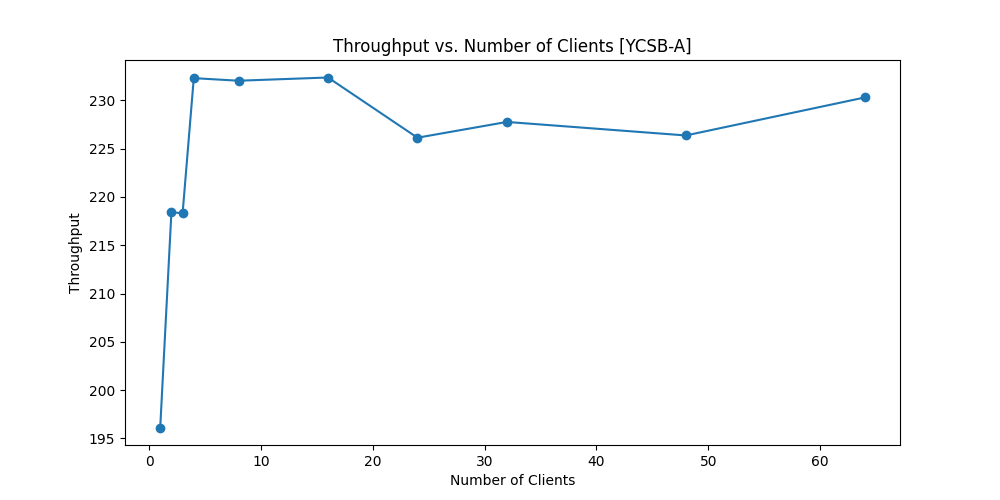
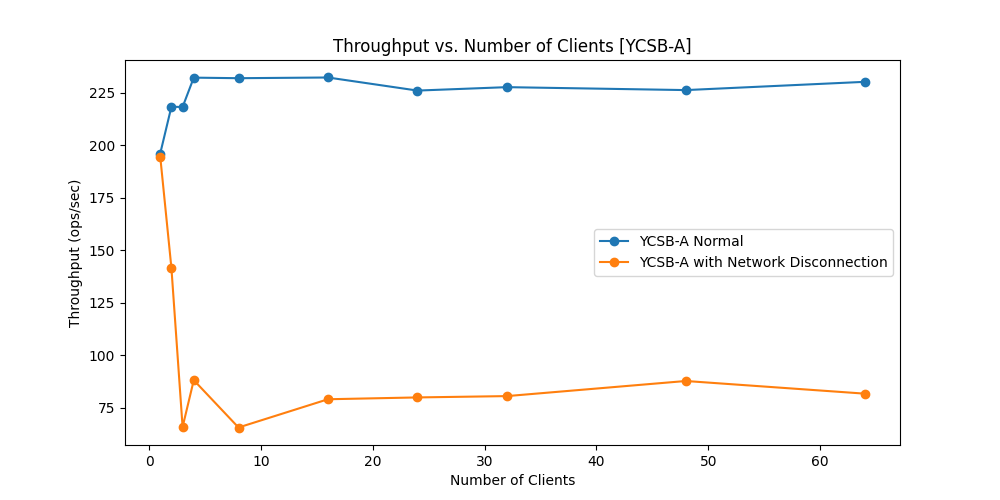
g

diff --git a/plot/plot.py b/plot/plot.py
@@ -4,6 +4,8 @@ import matplotlib.pyplot as plt
 x_c = [1, 2, 3,  8, 16, 24, 32, 48, 64]
 y_c = [57618/30, 106487/30, 177518/30, 385978/30, 571756/30, 604704/30 ,636320/30, 849903/30, 1006773/30]
 
+
+
 # Creating the plot for YCSB-C
 plt.figure(figsize=(10, 5))
 plt.plot(x_c, y_c, marker='o')  # Line plot with circle markers
@@ -27,17 +29,35 @@ plt.savefig('/home/Jamiroq/Documents/GitHub/myRabia/plot/throughput_plot-B.png')
 plt.close()  # Close the figure to ensure no memory issues or overlapsimport matplotlib.pyplot as plt
 
 
-
+# Define the data points
 x_a = [1, 2, 3, 4, 8, 16, 24, 32, 48, 64]
 y_a = [5884/30, 6553/30, 6549/30, 6969/30, 6961/30, 6971/30, 6784/30, 6833/30, 6791/30, 6909/30]
 
+x_a_d = [1, 2, 3, 4, 8, 16, 24, 32, 48, 64]
+y_a_d = [5841/30, 4248/30, 1973/30, 2643/30,  1966/30, 2370/30, 2396/30, 2415/30, 2631/30, 2450/30]
 
-#Creating the plot for YCSB-A
+# Create a plot
 plt.figure(figsize=(10, 5))
-plt.plot(x_a, y_a, marker='o')  # Line plot with circle markers
+
+# Plot data for YCSB-A normal
+plt.plot(x_a, y_a, marker='o', label='YCSB-A Normal')
+
+# Plot data for YCSB-A degraded
+plt.plot(x_a_d, y_a_d, marker='o', label='YCSB-A with Network Disconnection')
+
+# Adding titles and labels
 plt.title('Throughput vs. Number of Clients [YCSB-A]')
 plt.xlabel('Number of Clients')
-plt.ylabel('Throughput')
-plt.savefig('/home/Jamiroq/Documents/GitHub/myRabia/plot/throughput_plot-A.png')
-plt.close()  # Close the figure to ensure no memory issues or overlapsimport matplotlib.pyplot as plt
+plt.ylabel('Throughput (ops/sec)')
 
+# Adding a legend to distinguish the plots
+plt.legend()
+
+# Save the plot to a file
+plt.savefig('/home/Jamiroq/Documents/GitHub/myRabia/plot/throughput_plot-A.png')
+
+# Show the plot
+plt.show()
+
+# Close the plot
+plt.close()

diff --git a/replica/data.go b/replica/data.go
@@ -16,6 +16,7 @@ var VoteValueDataMutex sync.Mutex
 var ConsensusTerminationMutex sync.Mutex
 var PQMutex sync.Mutex
 var stringIP string
+var responceChannelMapMutex sync.Mutex
 
 var responseChannelMap map[string]chan ResponseToClient
 
@@ -121,8 +122,10 @@ func init() {
 	}
 	stringIP = selfIP.String()
 
-
+	responceChannelMapMutex.Lock()
 	responseChannelMap = make(map[string]chan ResponseToClient)
+	responceChannelMapMutex.Unlock()
+
 }
 
 func listenAndAccept() {
@@ -212,13 +215,21 @@ func handleConnection(conn net.Conn) {
 				heap.Push(&PQ, &data.CommandData)
 				PQMutex.Unlock()
 				broadCastData(replicaIPs, data)
+
+				responceChannelMapMutex.Lock()
 				if responseChannelMap[data.CommandData.ClientAddr] == nil {
 					responseChannelMap[data.CommandData.ClientAddr] = make(chan ResponseToClient)
 				}
+				responceChannelMapMutex.Unlock()
 				//Wait for termination
 				go func() {
 					//fmt.Println(data.CommandData.ClientAddr)
-					response := <-responseChannelMap[data.CommandData.ClientAddr]
+
+					responceChannelMapMutex.Lock()
+					respChan := responseChannelMap[data.CommandData.ClientAddr]
+					responceChannelMapMutex.Unlock()
+					// ロックを解放した後、チャネルからデータを受信
+					response := <-respChan
 					//fmt.Println("Response to client: ", response)
 					sendData(conn, response)
 

diff --git a/replica/replica.go b/replica/replica.go
@@ -279,8 +279,9 @@ func resolveTermination(termination TerminationValue, ownProposal CommandData){
 	if ownIP == IP  {
 		//c:= color.New(color.FgHiMagenta)
 		//c.Println("sending response to client: ", termination.CommandData.ClientAddr)
-
+		responceChannelMapMutex.Lock()
 		responseChannelMap[termination.CommandData.ClientAddr] <- ResponseToClient{Value: 0, ClientAddr: termination.CommandData.ClientAddr}
+		responceChannelMapMutex.Unlock()
 	}
 }
 
